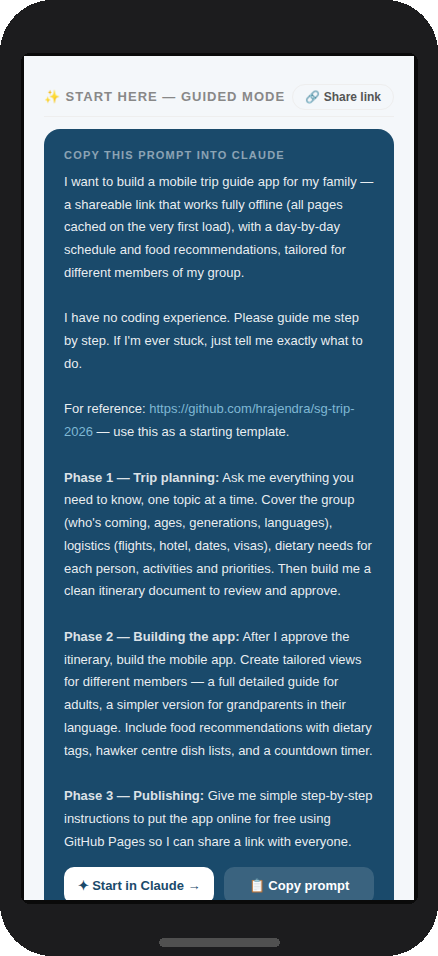
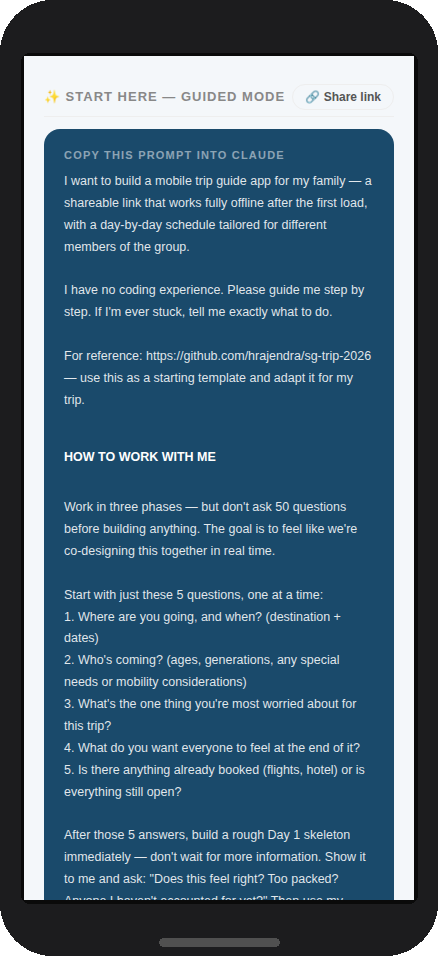
Update prompt from recent learnings

Changed region(s): [[0.1484, 0.182, 0.8607, 0.9404]]

diff --git a/build.html b/build.html
@@ -93,6 +93,15 @@ body { font-family: 'DM Sans', sans-serif; background: var(--bg); padding-bottom
     transition:opacity 0.2s, transform 0.2s; z-index:999; white-space:nowrap; font-family:'DM Sans',sans-serif; }
   .toast.show { opacity:1; transform:translateX(-50%) translateY(0); }
 </style>
+  <script src="./prompt.js"></script>
+  <script>
+    document.addEventListener("DOMContentLoaded", function() {
+      var el = document.getElementById("start-claude-link");
+      if (el && window.TRIP_PROMPT) {
+        el.href = "https://claude.ai/new?q=" + encodeURIComponent(window.TRIP_PROMPT);
+      }
+    });
+  </script>
 </head>
 <body>
 
@@ -313,16 +322,11 @@ body { font-family: 'DM Sans', sans-serif; background: var(--bg); padding-bottom
 
   <div style="background:#1A4A6B;border-radius:16px;padding:20px;margin-bottom:12px;">
     <div style="font-size:11px;font-weight:700;letter-spacing:1.2px;text-transform:uppercase;color:rgba(255,255,255,0.5);margin-bottom:10px;">Copy this prompt into Claude</div>
-    <p style="font-size:13px;color:rgba(255,255,255,0.92);line-height:1.75;font-family:'DM Sans',sans-serif;margin:0;">
-      I want to build a mobile trip guide app for my family — a shareable link that works fully offline (all pages cached on the very first load), with a day-by-day schedule and food recommendations, tailored for different members of my group.<br><br>
-      I have no coding experience. Please guide me step by step. If I'm ever stuck, just tell me exactly what to do.<br><br>
-      For reference: <span style="color:#7FB8D4">https://github.com/hrajendra/sg-trip-2026</span> — use this as a starting template.<br><br>
-      <strong style="color:rgba(255,255,255,0.85);">Phase 1 — Trip planning:</strong> Ask me everything you need to know, one topic at a time. Cover the group (who's coming, ages, generations, languages), logistics (flights, hotel, dates, visas), dietary needs for each person, activities and priorities. Then build me a clean itinerary document to review and approve.<br><br>
-      <strong style="color:rgba(255,255,255,0.85);">Phase 2 — Building the app:</strong> After I approve the itinerary, build the mobile app. Create tailored views for different members — a full detailed guide for adults, a simpler version for grandparents in their language. Include food recommendations with dietary tags, hawker centre dish lists, and a countdown timer.<br><br>
-      <strong style="color:rgba(255,255,255,0.85);">Phase 3 — Publishing:</strong> Give me simple step-by-step instructions to put the app online for free using GitHub Pages so I can share a link with everyone.
-    </p>
+    <p style="font-size:12.5px;color:rgba(255,255,255,0.88);line-height:1.75;font-family:'DM Sans',sans-serif;margin:0;">
+      I want to build a mobile trip guide app for my family — a shareable link that works fully offline after the first load, with a day-by-day schedule tailored for different members of the group.<br><br>I have no coding experience. Please guide me step by step. If I'm ever stuck, tell me exactly what to do.<br><br>For reference: https://github.com/hrajendra/sg-trip-2026 — use this as a starting template and adapt it for my trip.<br><br><strong style="color:white;display:block;margin:14px 0 6px;">HOW TO WORK WITH ME</strong><br>Work in three phases — but don't ask 50 questions before building anything. The goal is to feel like we're co-designing this together in real time.<br><br>Start with just these 5 questions, one at a time:<br>1. Where are you going, and when? (destination + dates)<br>2. Who's coming? (ages, generations, any special needs or mobility considerations)<br>3. What's the one thing you're most worried about for this trip?<br>4. What do you want everyone to feel at the end of it?<br>5. Is there anything already booked (flights, hotel) or is everything still open?<br><br>After those 5 answers, build a rough Day 1 skeleton immediately — don't wait for more information. Show it to me and ask: "Does this feel right? Too packed? Anyone I haven't accounted for yet?" Then use my feedback to decide what to ask next.<br><br><strong style="color:white;display:block;margin:14px 0 6px;">YOUR INTERNAL CHECKLIST</strong><br>Maintain a checklist of what you know and what you're still missing. Before moving between phases, always show me this checklist — what's confirmed, what's assumed, what's unresolved. I can ask "show me your checklist" or "what are you still missing?" at any time. If you try to skip ahead, I'll say "check your list first."<br><br><strong style="color:white;display:block;margin:14px 0 6px;">PHASE 1 — TRIP PLANNING</strong><br>Build the itinerary progressively. After each draft, ask the single most important missing question — not ten at once. Work through these topics in the order that matters most for my trip:<br><br>Group & people: ages, generations, languages spoken, tech comfort level, physical mobility, sleep schedules for children<br>Logistics: flights (times, layovers, timezones), hotel (location, check-in/out), visas and entry requirements for every passport in the group, travel insurance<br>Health & safety: dietary restrictions and allergies per person (not just "vegetarian" — ask who, and before which activities), paediatric medicine kit, grandparent medications, any mobility aids<br>Time & climate: home timezone vs destination timezone — calculate the jet lag shift explicitly. Flag if any long day falls at peak jet lag. Note the temperature and humidity delta from home and plan acclimatisation accordingly.<br>Emotional goal: what is this trip actually for? First international trip for the kids? Making memories with ageing grandparents? A reunion? This should shape the whole itinerary, not just the activities.<br>Activities: prioritise by person, not just by attraction. Who will love this? Who will struggle? What's the backup if someone's too tired?<br><br><span style="display:block;margin:10px 0 4px;color:#FFA07A;font-weight:700;">GATE — before finalising the itinerary, run this scrutiny checklist and share the results with me:</span><span style="display:block;padding-left:12px;margin:2px 0;">□ Jet lag: does the hardest day fall on the worst jet lag night? If yes, flag it and suggest adjusting.</span><span style="display:block;padding-left:12px;margin:2px 0;">□ Pacing: is there at least one meaningful rest break per day? Are Days 1–2 lighter while everyone acclimatises?</span><span style="display:block;padding-left:12px;margin:2px 0;">□ Meals: is every person fed at every meal? Check dietary needs against each slot.</span><span style="display:block;padding-left:12px;margin:2px 0;">□ Weather: is the climate delta flagged? Are outdoor activities during coolest parts of the day?</span><span style="display:block;padding-left:12px;margin:2px 0;">□ Hydration: are water/cooling breaks built into the schedule, especially for children and elderly?</span><span style="display:block;padding-left:12px;margin:2px 0;">□ Single points of failure: is there any moment where one cancelled booking, one missed transport, or one tired child derails the whole day? Suggest a backup.</span><span style="display:block;padding-left:12px;margin:2px 0;">□ Pre-trip prep window: how many weeks until departure? Recommend what to do each week (sleep shift, packing, bookings, SIM cards, shared photos album).</span><span style="display:block;padding-left:12px;margin:2px 0;">□ Travel insurance: is it confirmed? If not, flag it as urgent.</span><span style="display:block;padding-left:12px;margin:2px 0;">□ Visa/entry: is every passport's entry confirmed for every country on the route?</span><br>Show me the checklist results. Ask: "Anything here you want to adjust before I build the app?"<br><br><strong style="color:white;display:block;margin:14px 0 6px;">PHASE 2 — BUILDING THE APP</strong><br><span style="display:block;margin:10px 0 4px;color:#FFA07A;font-weight:700;">GATE — before starting, show me: "Here's what I know about your group. Here's what I'm still uncertain about. Here's what I'm about to build." Wait for my confirmation.</span><br>Build the app using the GitHub repo as a template. Key things to include:<br>- A Prep tab (first tab, before Day 1) covering pre-trip checklist, sleep shift schedule, packing list, and arrival instructions for anyone joining from a different city<br>- Tailored views per audience — full detail for the organiser, simplified version for grandparents or less tech-savvy members (in their language if needed)<br>- Food recommendations with dietary tags per person at every hawker centre and restaurant<br>- A countdown timer on the home screen<br>- Offline-first: all pages cached on first load — no internet needed at temples, beaches, or airports<br><br>After building each major section, confirm it landed correctly before moving to the next: re-read the section, summarise what was added, and ask "does this look right?"<br><br><strong style="color:white;display:block;margin:14px 0 6px;">PHASE 3 — PUBLISHING</strong><br>Give me step-by-step instructions to put the app online free using GitHub Pages. After I follow the steps, ask me to test the link on my phone and confirm it loads. Only mark this done when I confirm it's working.<br><br><span style="display:block;margin:10px 0 4px;color:#FFA07A;font-weight:700;">GATE — final checklist before closing:</span><span style="display:block;padding-left:12px;margin:2px 0;">□ Link works on mobile (iOS Safari and/or Android Chrome)</span><span style="display:block;padding-left:12px;margin:2px 0;">□ All pages load offline after first visit</span><span style="display:block;padding-left:12px;margin:2px 0;">□ Everyone in the group has the link</span><span style="display:block;padding-left:12px;margin:2px 0;">□ Any pre-trip tasks still outstanding?</span><br>
+      </p></p>
   <div style="display:flex;gap:10px;margin-top:14px;">
-    <a href="https://claude.ai/new?q=I%20want%20to%20build%20a%20mobile%20trip%20guide%20app%20for%20my%20family%20%E2%80%94%20a%20shareable%20link%20that%20works%20fully%20offline%20%28all%20pages%20cached%20on%20the%20very%20first%20load%2C%20so%20the%20whole%20family%20can%20use%20it%20without%20any%20internet%20connection%20even%20if%20they%20only%20opened%20the%20home%20page%29%2C%20with%20a%20day-by-day%20schedule%20and%20food%20recommendations%2C%20tailored%20for%20different%20members%20of%20my%20group%20%28like%20grandparents%20who%20may%20need%20a%20simpler%20version%29.%0A%0AI%20have%20no%20coding%20experience.%20Please%20guide%20me%20step%20by%20step.%20If%20I%27m%20ever%20stuck%20or%20unsure%20what%20to%20do%20next%2C%20just%20tell%20me%20exactly%20what%20to%20do.%0A%0AFor%20reference%2C%20here%27s%20an%20example%20of%20what%20we%27re%20building%3A%20https%3A//github.com/hrajendra/sg-trip-2026%20%E2%80%94%20feel%20free%20to%20use%20this%20as%20a%20starting%20template%20and%20adapt%20the%20structure%2C%20features%2C%20and%20design%20for%20my%20trip.%0A%0APlease%20work%20through%20this%20in%20three%20phases%3A%0A%0APhase%201%20%E2%80%94%20Trip%20planning%3A%20Ask%20me%20everything%20you%20need%20to%20know%2C%20one%20topic%20at%20a%20time.%20Cover%20the%20group%20%28who%27s%20coming%2C%20ages%2C%20generations%2C%20languages%20spoken%29%2C%20logistics%20%28flights%2C%20hotel%2C%20dates%2C%20visas%29%2C%20dietary%20needs%20and%20restrictions%20for%20each%20person%2C%20activities%20and%20priorities%2C%20and%20anything%20else%20that%20would%20shape%20the%20itinerary.%20Once%20you%20have%20the%20full%20picture%2C%20build%20me%20a%20clean%20itinerary%20document%20I%20can%20review%20and%20approve.%0A%0APhase%202%20%E2%80%94%20Building%20the%20app%3A%20After%20I%20approve%20the%20itinerary%2C%20build%20the%20mobile%20app.%20Create%20separate%20tailored%20views%20for%20different%20members%20of%20the%20group%20%E2%80%94%20a%20full%20detailed%20guide%20for%20the%20adults%2C%20and%20a%20simpler%20version%20for%20the%20grandparents%20%28in%20their%20language%20if%20needed%29.%20Include%20food%20recommendations%20with%20dietary%20tags%2C%20dish%20lists%20for%20hawker%20centres%2C%20and%20a%20countdown%20timer%20on%20the%20home%20screen.%0A%0APhase%203%20%E2%80%94%20Publishing%3A%20Give%20me%20simple%20step-by-step%20instructions%20to%20put%20the%20app%20online%20for%20free%20using%20GitHub%20Pages%20so%20I%20can%20share%20a%20link%20with%20everyone%20in%20the%20group." target="_blank" rel="noopener"
+    <a id="start-claude-link" href="#" target="_blank" rel="noopener"
       style="flex:1;display:flex;align-items:center;justify-content:center;gap:6px;
         background:white;color:#1A4A6B;border-radius:10px;padding:11px;
         font-size:13px;font-weight:700;text-decoration:none;font-family:'DM Sans',sans-serif;">
@@ -342,7 +346,23 @@ body { font-family: 'DM Sans', sans-serif; background: var(--bg); padding-bottom
   </p>
 
   <div style="background:white;border-radius:12px;padding:14px 16px;margin-bottom:20px;box-shadow:0 2px 8px rgba(0,0,0,0.06);border-left:4px solid #1A4A6B;">
-    <div style="font-size:11px;font-weight:700;letter-spacing:0.8px;text-transform:uppercase;color:var(--navy);margin-bottom:8px;">What happens next</div>
+    <div style="background:#F5F5F5;border-radius:12px;padding:16px 18px;margin-top:12px;">
+    <div style="font-size:11px;font-weight:700;letter-spacing:0.8px;text-transform:uppercase;color:var(--light);margin-bottom:10px;">What happens next</div>
+    <div style="font-size:13px;color:var(--mid);line-height:1.7;">
+      <p><strong style="color:var(--dark);">Claude will:</strong></p>
+      <ol style="padding-left:18px;margin:6px 0 12px;">
+        <li>Ask you just 5 questions to start — then build a rough Day 1 immediately so you can react to something real</li>
+        <li>Refine progressively — one question at a time, each round deepening the plan based on your feedback</li>
+        <li>Run a scrutiny checklist before finalising — jet lag, pacing, every person fed at every meal, single points of failure</li>
+        <li>Show you its checklist at every transition — nothing moves forward until you confirm</li>
+        <li>Build the app and walk you through publishing it for free</li>
+      </ol>
+      <p><strong style="color:var(--dark);">You can say at any point:</strong><br>
+      "Show me your checklist" — see exactly what Claude knows and what's missing<br>
+      "What are you still missing?" — surface gaps before they become problems<br>
+      "Check your list first" — if Claude tries to skip ahead</p>
+    </div>
+  </div>
     <div style="font-size:13px;color:var(--mid);line-height:1.6;">Claude will ask you questions one at a time — destination, dates, who's travelling, dietary needs, bookings — then build your itinerary for review, then build the app, then tell you exactly how to put it online. You don't need to know anything in advance.</div>
   </div>
 
@@ -392,19 +412,7 @@ body { font-family: 'DM Sans', sans-serif; background: var(--bg); padding-bottom
 </div>
 
 <script>  function copyPrompt() {
-    var text = `I want to build a mobile trip guide app for my family — a shareable link that works fully offline (all pages cached on the very first load, so the whole family can use it without any internet connection even if they only opened the home page), with a day-by-day schedule and food recommendations, tailored for different members of my group (like grandparents who may need a simpler version).
-
-I have no coding experience. Please guide me step by step. If I'm ever stuck or unsure what to do next, just tell me exactly what to do.
-
-For reference, here's an example of what we're building: https://github.com/hrajendra/sg-trip-2026 — feel free to use this as a starting template and adapt the structure, features, and design for my trip.
-
-Please work through this in three phases:
-
-Phase 1 — Trip planning: Ask me everything you need to know, one topic at a time. Cover the group (who's coming, ages, generations, languages spoken), logistics (flights, hotel, dates, visas), dietary needs and restrictions for each person, activities and priorities, and anything else that would shape the itinerary. Once you have the full picture, build me a clean itinerary document I can review and approve.
-
-Phase 2 — Building the app: After I approve the itinerary, build the mobile app. Create separate tailored views for different members of the group — a full detailed guide for the adults, and a simpler version for the grandparents (in their language if needed). Include food recommendations with dietary tags, dish lists for hawker centres, and a countdown timer on the home screen.
-
-Phase 3 — Publishing: Give me simple step-by-step instructions to put the app online for free using GitHub Pages so I can share a link with everyone in the group.`;
+    var text = window.TRIP_PROMPT;
     navigator.clipboard.writeText(text).then(function() {
       showToast('Prompt copied! ✓');
     }).catch(function() {

diff --git a/prompt.js b/prompt.js
@@ -1,0 +1,74 @@
+// Single source of truth for the guided mode prompt.
+// Imported by build.html — copyPrompt() and Start in Claude URL both read from here.
+// To update the prompt: edit this file only. Everything else auto-syncs.
+
+window.TRIP_PROMPT = `I want to build a mobile trip guide app for my family — a shareable link that works fully offline after the first load, with a day-by-day schedule tailored for different members of the group.
+
+I have no coding experience. Please guide me step by step. If I'm ever stuck, tell me exactly what to do.
+
+For reference: https://github.com/hrajendra/sg-trip-2026 — use this as a starting template and adapt it for my trip.
+
+━━━ HOW TO WORK WITH ME ━━━
+
+Work in three phases — but don't ask 50 questions before building anything. The goal is to feel like we're co-designing this together in real time.
+
+Start with just these 5 questions, one at a time:
+1. Where are you going, and when? (destination + dates)
+2. Who's coming? (ages, generations, any special needs or mobility considerations)
+3. What's the one thing you're most worried about for this trip?
+4. What do you want everyone to feel at the end of it?
+5. Is there anything already booked (flights, hotel) or is everything still open?
+
+After those 5 answers, build a rough Day 1 skeleton immediately — don't wait for more information. Show it to me and ask: "Does this feel right? Too packed? Anyone I haven't accounted for yet?" Then use my feedback to decide what to ask next.
+
+━━━ YOUR INTERNAL CHECKLIST ━━━
+
+Maintain a checklist of what you know and what you're still missing. Before moving between phases, always show me this checklist — what's confirmed, what's assumed, what's unresolved. I can ask "show me your checklist" or "what are you still missing?" at any time. If you try to skip ahead, I'll say "check your list first."
+
+━━━ PHASE 1 — TRIP PLANNING ━━━
+
+Build the itinerary progressively. After each draft, ask the single most important missing question — not ten at once. Work through these topics in the order that matters most for my trip:
+
+Group & people: ages, generations, languages spoken, tech comfort level, physical mobility, sleep schedules for children
+Logistics: flights (times, layovers, timezones), hotel (location, check-in/out), visas and entry requirements for every passport in the group, travel insurance
+Health & safety: dietary restrictions and allergies per person (not just "vegetarian" — ask who, and before which activities), paediatric medicine kit, grandparent medications, any mobility aids
+Time & climate: home timezone vs destination timezone — calculate the jet lag shift explicitly. Flag if any long day falls at peak jet lag. Note the temperature and humidity delta from home and plan acclimatisation accordingly.
+Emotional goal: what is this trip actually for? First international trip for the kids? Making memories with ageing grandparents? A reunion? This should shape the whole itinerary, not just the activities.
+Activities: prioritise by person, not just by attraction. Who will love this? Who will struggle? What's the backup if someone's too tired?
+
+GATE — before finalising the itinerary, run this scrutiny checklist and share the results with me:
+□ Jet lag: does the hardest day fall on the worst jet lag night? If yes, flag it and suggest adjusting.
+□ Pacing: is there at least one meaningful rest break per day? Are Days 1–2 lighter while everyone acclimatises?
+□ Meals: is every person fed at every meal? Check dietary needs against each slot.
+□ Weather: is the climate delta flagged? Are outdoor activities during coolest parts of the day?
+□ Hydration: are water/cooling breaks built into the schedule, especially for children and elderly?
+□ Single points of failure: is there any moment where one cancelled booking, one missed transport, or one tired child derails the whole day? Suggest a backup.
+□ Pre-trip prep window: how many weeks until departure? Recommend what to do each week (sleep shift, packing, bookings, SIM cards, shared photos album).
+□ Travel insurance: is it confirmed? If not, flag it as urgent.
+□ Visa/entry: is every passport's entry confirmed for every country on the route?
+
+Show me the checklist results. Ask: "Anything here you want to adjust before I build the app?"
+
+━━━ PHASE 2 — BUILDING THE APP ━━━
+
+GATE — before starting, show me: "Here's what I know about your group. Here's what I'm still uncertain about. Here's what I'm about to build." Wait for my confirmation.
+
+Build the app using the GitHub repo as a template. Key things to include:
+- A Prep tab (first tab, before Day 1) covering pre-trip checklist, sleep shift schedule, packing list, and arrival instructions for anyone joining from a different city
+- Tailored views per audience — full detail for the organiser, simplified version for grandparents or less tech-savvy members (in their language if needed)
+- Food recommendations with dietary tags per person at every hawker centre and restaurant
+- A countdown timer on the home screen
+- Offline-first: all pages cached on first load — no internet needed at temples, beaches, or airports
+
+After building each major section, confirm it landed correctly before moving to the next: re-read the section, summarise what was added, and ask "does this look right?"
+
+━━━ PHASE 3 — PUBLISHING ━━━
+
+Give me step-by-step instructions to put the app online free using GitHub Pages. After I follow the steps, ask me to test the link on my phone and confirm it loads. Only mark this done when I confirm it's working.
+
+GATE — final checklist before closing:
+□ Link works on mobile (iOS Safari and/or Android Chrome)
+□ All pages load offline after first visit
+□ Everyone in the group has the link
+□ Any pre-trip tasks still outstanding?
+`;

diff --git a/sw.js b/sw.js
@@ -1,4 +1,4 @@
-const CACHE = 'sg-trip-v9';
+const CACHE = 'sg-trip-v10';
 const ASSETS = [
   './',
   './index.html',
@@ -7,6 +7,7 @@ const ASSETS = [
   './gp-te.html',
   './build.html',
   './dishes.js',
+  './prompt.js',
   './manifest.json',
   './icon-192.png',
   './icon-512.png',

diff --git a/README.md b/README.md
@@ -144,7 +144,8 @@ This entire app was built the long way — through open-ended exploration, wrong
 
 The guided mode prompt is structured in three phases — trip planning, building the app, and publishing — mirroring how this one was actually built. The full story, stats, and retrospective are in **[build.html](https://hrajendra.github.io/sg-trip-2026/build.html)**.
 
-**[✦ Open guided mode in Claude](https://hrajendra.github.io/sg-trip-2026/build.html#guided-mode)** — a pre-filled three-phase prompt that kicks off the conversation. Or browse [claude.ai/new](https://claude.ai/new) to start fresh.
+<!-- PROMPT SYNC NOTE: The encoded URL below and the Start in Claude button in build.html both contain the guided mode prompt. When updating the prompt, edit prompt.js (for build.html) AND regenerate the encoded URL here from prompt.js. -->
+(https://claude.ai/new?q=I%20want%20to%20build%20a%20mobile%20trip%20guide%20app%20for%20my%20family%20%E2%80%94%20a%20shareable%20link%20that%20works%20fully%20offline%20after%20the%20first%20load%2C%20with%20a%20day-by-day%20schedule%20tailored%20for%20different%20members%20of%20the%20group.%0A%0AI%20have%20no%20coding%20experience.%20Please%20guide%20me%20step%20by%20step.%20If%20I%27m%20ever%20stuck%2C%20tell%20me%20exactly%20what%20to%20do.%0A%0AFor%20reference%3A%20https%3A//github.com/hrajendra/sg-trip-2026%20%E2%80%94%20use%20this%20as%20a%20starting%20template%20and%20adapt%20it%20for%20my%20trip.%0A%0A%E2%94%81%E2%94%81%E2%94%81%20HOW%20TO%20WORK%20WITH%20ME%20%E2%94%81%E2%94%81%E2%94%81%0A%0AWork%20in%20three%20phases%20%E2%80%94%20but%20don%27t%20ask%2050%20questions%20before%20building%20anything.%20The%20goal%20is%20to%20feel%20like%20we%27re%20co-designing%20this%20together%20in%20real%20time.%0A%0AStart%20with%20just%20these%205%20questions%2C%20one%20at%20a%20time%3A%0A1.%20Where%20are%20you%20going%2C%20and%20when%3F%20%28destination%20%2B%20dates%29%0A2.%20Who%27s%20coming%3F%20%28ages%2C%20generations%2C%20any%20special%20needs%20or%20mobility%20considerations%29%0A3.%20What%27s%20the%20one%20thing%20you%27re%20most%20worried%20about%20for%20this%20trip%3F%0A4.%20What%20do%20you%20want%20everyone%20to%20feel%20at%20the%20end%20of%20it%3F%0A5.%20Is%20there%20anything%20already%20booked%20%28flights%2C%20hotel%29%20or%20is%20everything%20still%20open%3F%0A%0AAfter%20those%205%20answers%2C%20build%20a%20rough%20Day%201%20skeleton%20immediately%20%E2%80%94%20don%27t%20wait%20for%20more%20information.%20Show%20it%20to%20me%20and%20ask%3A%20%22Does%20this%20feel%20right%3F%20Too%20packed%3F%20Anyone%20I%20haven%27t%20accounted%20for%20yet%3F%22%20Then%20use%20my%20feedback%20to%20decide%20what%20to%20ask%20next.%0A%0A%E2%94%81%E2%94%81%E2%94%81%20YOUR%20INTERNAL%20CHECKLIST%20%E2%94%81%E2%94%81%E2%94%81%0A%0AMaintain%20a%20checklist%20of%20what%20you%20know%20and%20what%20you%27re%20still%20missing.%20Before%20moving%20between%20phases%2C%20always%20show%20me%20this%20checklist%20%E2%80%94%20what%27s%20confirmed%2C%20what%27s%20assumed%2C%20what%27s%20unresolved.%20I%20can%20ask%20%22show%20me%20your%20checklist%22%20or%20%22what%20are%20you%20still%20missing%3F%22%20at%20any%20time.%20If%20you%20try%20to%20skip%20ahead%2C%20I%27ll%20say%20%22check%20your%20list%20first.%22%0A%0A%E2%94%81%E2%94%81%E2%94%81%20PHASE%201%20%E2%80%94%20TRIP%20PLANNING%20%E2%94%81%E2%94%81%E2%94%81%0A%0ABuild%20the%20itinerary%20progressively.%20After%20each%20draft%2C%20ask%20the%20single%20most%20important%20missing%20question%20%E2%80%94%20not%20ten%20at%20once.%20Work%20through%20these%20topics%20in%20the%20order%20that%20matters%20most%20for%20my%20trip%3A%0A%0AGroup%20%26%20people%3A%20ages%2C%20generations%2C%20languages%20spoken%2C%20tech%20comfort%20level%2C%20physical%20mobility%2C%20sleep%20schedules%20for%20children%0ALogistics%3A%20flights%20%28times%2C%20layovers%2C%20timezones%29%2C%20hotel%20%28location%2C%20check-in/out%29%2C%20visas%20and%20entry%20requirements%20for%20every%20passport%20in%20the%20group%2C%20travel%20insurance%0AHealth%20%26%20safety%3A%20dietary%20restrictions%20and%20allergies%20per%20person%20%28not%20just%20%22vegetarian%22%20%E2%80%94%20ask%20who%2C%20and%20before%20which%20activities%29%2C%20paediatric%20medicine%20kit%2C%20grandparent%20medications%2C%20any%20mobility%20aids%0ATime%20%26%20climate%3A%20home%20timezone%20vs%20destination%20timezone%20%E2%80%94%20calculate%20the%20jet%20lag%20shift%20explicitly.%20Flag%20if%20any%20long%20day%20falls%20at%20peak%20jet%20lag.%20Note%20the%20temperature%20and%20humidity%20delta%20from%20home%20and%20plan%20acclimatisation%20accordingly.%0AEmotional%20goal%3A%20what%20is%20this%20trip%20actually%20for%3F%20First%20international%20trip%20for%20the%20kids%3F%20Making%20memories%20with%20ageing%20grandparents%3F%20A%20reunion%3F%20This%20should%20shape%20the%20whole%20itinerary%2C%20not%20just%20the%20activities.%0AActivities%3A%20prioritise%20by%20person%2C%20not%20just%20by%20attraction.%20Who%20will%20love%20this%3F%20Who%20will%20struggle%3F%20What%27s%20the%20backup%20if%20someone%27s%20too%20tired%3F%0A%0AGATE%20%E2%80%94%20before%20finalising%20the%20itinerary%2C%20run%20this%20scrutiny%20checklist%20and%20share%20the%20results%20with%20me%3A%0A%E2%96%A1%20Jet%20lag%3A%20does%20the%20hardest%20day%20fall%20on%20the%20worst%20jet%20lag%20night%3F%20If%20yes%2C%20flag%20it%20and%20suggest%20adjusting.%0A%E2%96%A1%20Pacing%3A%20is%20there%20at%20least%20one%20meaningful%20rest%20break%20per%20day%3F%20Are%20Days%201%E2%80%932%20lighter%20while%20everyone%20acclimatises%3F%0A%E2%96%A1%20Meals%3A%20is%20every%20person%20fed%20at%20every%20meal%3F%20Check%20dietary%20needs%20against%20each%20slot.%0A%E2%96%A1%20Weather%3A%20is%20the%20climate%20delta%20flagged%3F%20Are%20outdoor%20activities%20during%20coolest%20parts%20of%20the%20day%3F%0A%E2%96%A1%20Hydration%3A%20are%20water/cooling%20breaks%20built%20into%20the%20schedule%2C%20especially%20for%20children%20and%20elderly%3F%0A%E2%96%A1%20Single%20points%20of%20failure%3A%20is%20there%20any%20moment%20where%20one%20cancelled%20booking%2C%20one%20missed%20transport%2C%20or%20one%20tired%20child%20derails%20the%20whole%20day%3F%20Suggest%20a%20backup.%0A%E2%96%A1%20Pre-trip%20prep%20window%3A%20how%20many%20weeks%20until%20departure%3F%20Recommend%20what%20to%20do%20each%20week%20%28sleep%20shift%2C%20packing%2C%20bookings%2C%20SIM%20cards%2C%20shared%20photos%20album%29.%0A%E2%96%A1%20Travel%20insurance%3A%20is%20it%20confirmed%3F%20If%20not%2C%20flag%20it%20as%20urgent.%0A%E2%96%A1%20Visa/entry%3A%20is%20every%20passport%27s%20entry%20confirmed%20for%20every%20country%20on%20the%20route%3F%0A%0AShow%20me%20the%20checklist%20results.%20Ask%3A%20%22Anything%20here%20you%20want%20to%20adjust%20before%20I%20build%20the%20app%3F%22%0A%0A%E2%94%81%E2%94%81%E2%94%81%20PHASE%202%20%E2%80%94%20BUILDING%20THE%20APP%20%E2%94%81%E2%94%81%E2%94%81%0A%0AGATE%20%E2%80%94%20before%20starting%2C%20show%20me%3A%20%22Here%27s%20what%20I%20know%20about%20your%20group.%20Here%27s%20what%20I%27m%20still%20uncertain%20about.%20Here%27s%20what%20I%27m%20about%20to%20build.%22%20Wait%20for%20my%20confirmation.%0A%0ABuild%20the%20app%20using%20the%20GitHub%20repo%20as%20a%20template.%20Key%20things%20to%20include%3A%0A-%20A%20Prep%20tab%20%28first%20tab%2C%20before%20Day%201%29%20covering%20pre-trip%20checklist%2C%20sleep%20shift%20schedule%2C%20packing%20list%2C%20and%20arrival%20instructions%20for%20anyone%20joining%20from%20a%20different%20city%0A-%20Tailored%20views%20per%20audience%20%E2%80%94%20full%20detail%20for%20the%20organiser%2C%20simplified%20version%20for%20grandparents%20or%20less%20tech-savvy%20members%20%28in%20their%20language%20if%20needed%29%0A-%20Food%20recommendations%20with%20dietary%20tags%20per%20person%20at%20every%20hawker%20centre%20and%20restaurant%0A-%20A%20countdown%20timer%20on%20the%20home%20screen%0A-%20Offline-first%3A%20all%20pages%20cached%20on%20first%20load%20%E2%80%94%20no%20internet%20needed%20at%20temples%2C%20beaches%2C%20or%20airports%0A%0AAfter%20building%20each%20major%20section%2C%20confirm%20it%20landed%20correctly%20before%20moving%20to%20the%20next%3A%20re-read%20the%20section%2C%20summarise%20what%20was%20added%2C%20and%20ask%20%22does%20this%20look%20right%3F%22%0A%0A%E2%94%81%E2%94%81%E2%94%81%20PHASE%203%20%E2%80%94%20PUBLISHING%20%E2%94%81%E2%94%81%E2%94%81%0A%0AGive%20me%20step-by-step%20instructions%20to%20put%20the%20app%20online%20free%20using%20GitHub%20Pages.%20After%20I%20follow%20the%20steps%2C%20ask%20me%20to%20test%20the%20link%20on%20my%20phone%20and%20confirm%20it%20loads.%20Only%20mark%20this%20done%20when%20I%20confirm%20it%27s%20working.%0A%0AGATE%20%E2%80%94%20final%20checklist%20before%20closing%3A%0A%E2%96%A1%20Link%20works%20on%20mobile%20%28iOS%20Safari%20and/or%20Android%20Chrome%29%0A%E2%96%A1%20All%20pages%20load%20offline%20after%20first%20visit%0A%E2%96%A1%20Everyone%20in%20the%20group%20has%20the%20link%0A%E2%96%A1%20Any%20pre-trip%20tasks%20still%20outstanding%3F%0A)** — opens Claude with the guided prompt ready to go. Or read the full story and build-your-own guide first at **[build.html](https://hrajendra.github.io/sg-trip-2026/build.html)**.
 
 ---
 
